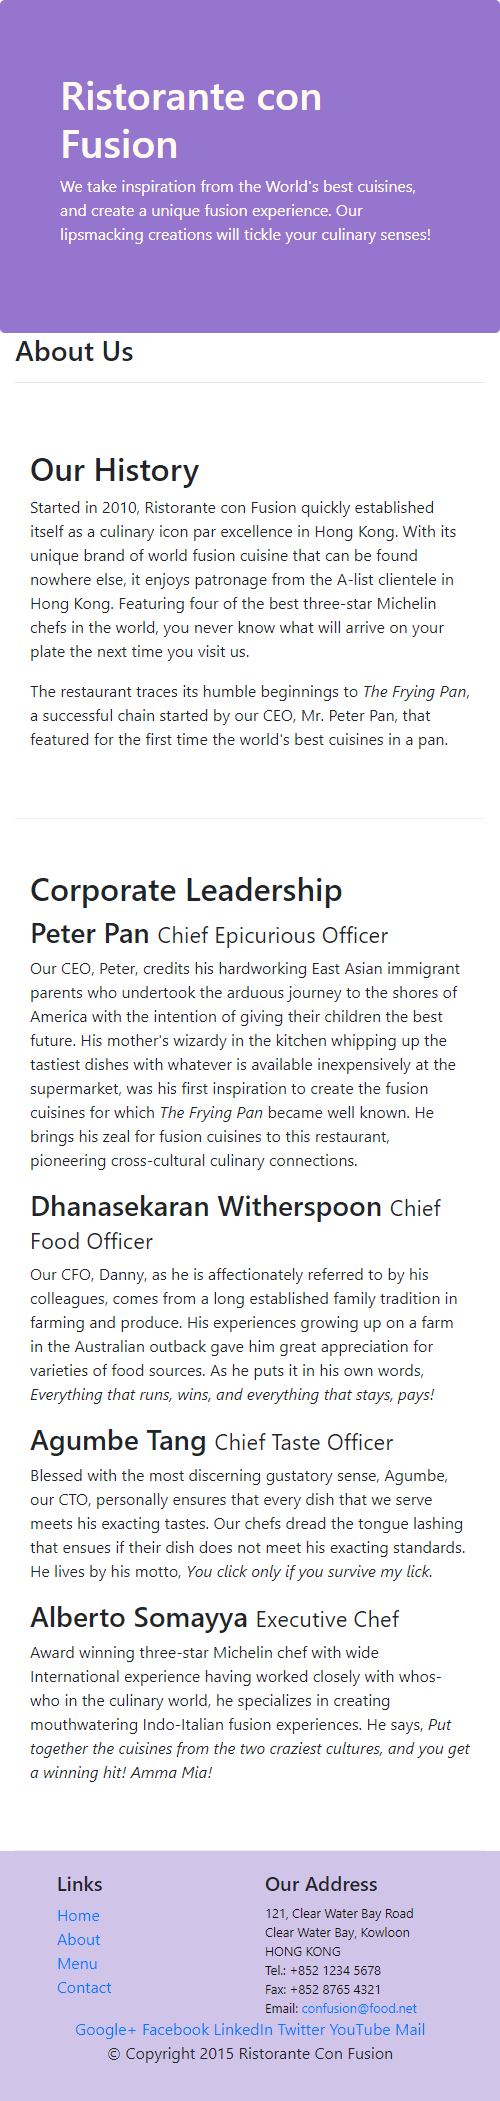
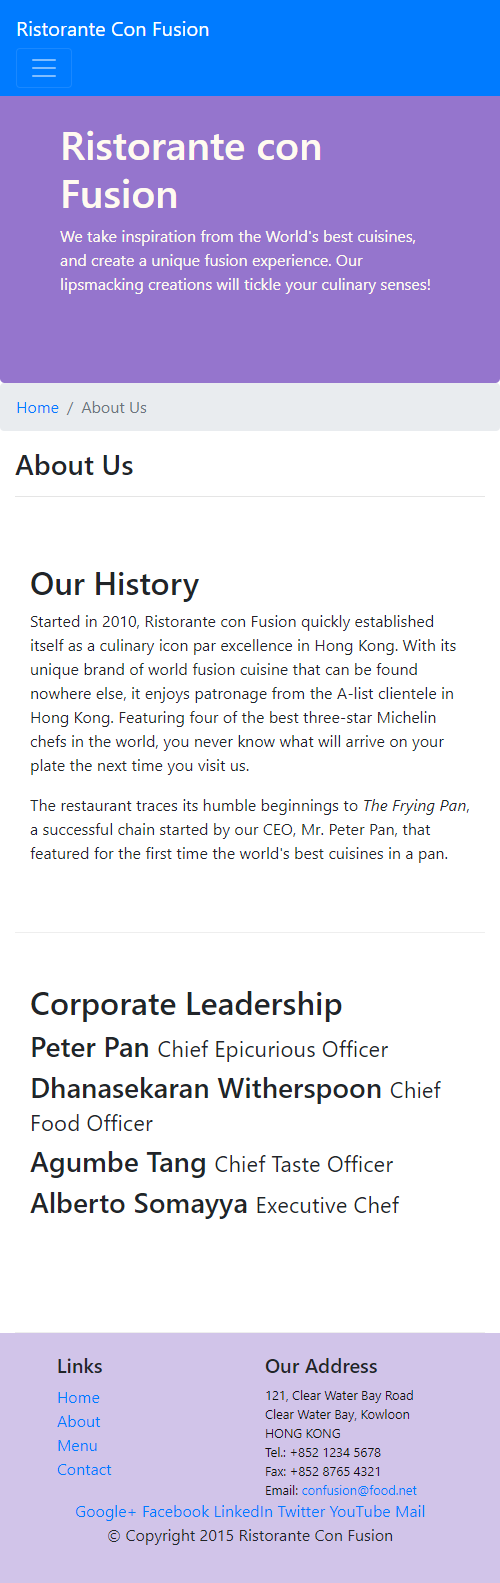
Tabs

diff --git a/aboutus.html b/aboutus.html
@@ -105,20 +105,63 @@
             </div>
         </div>
 
-
         <div class="row row-content">
             <div class="col">
                 <h2>Corporate Leadership</h2>
-                <h3>Peter Pan <small>Chief Epicurious Officer</small></h3>
-                <p class="hidden-xs-down">Our CEO, Peter, credits his hardworking East Asian immigrant parents who undertook the arduous journey to the shores of America with the intention of giving their children the best future. His mother's wizardy in the kitchen whipping up the tastiest dishes with whatever is available inexpensively at the supermarket, was his first inspiration to create the fusion cuisines for which <em>The Frying Pan</em> became well known. He brings his zeal for fusion cuisines to this restaurant, pioneering cross-cultural culinary connections.</p>
-                <h3>Dhanasekaran Witherspoon <small>Chief Food Officer</small></h3>
-                <p class="hidden-xs-down">Our CFO, Danny, as he is affectionately referred to by his colleagues, comes from a long established family tradition in farming and produce. His experiences growing up on a farm in the Australian outback gave him great appreciation for varieties of food sources. As he puts it in his own words, <em>Everything that runs, wins, and everything that stays, pays!</em></p>
-                <h3>Agumbe Tang <small>Chief Taste Officer</small></h3>
-                <p class="hidden-xs-down">Blessed with the most discerning gustatory sense, Agumbe, our CTO, personally ensures that every dish that we serve meets his exacting tastes. Our chefs dread the tongue lashing that ensues if their dish does not meet his exacting standards. He lives by his motto, <em>You click only if you survive my lick.</em></p>
-                <h3>Alberto Somayya <small>Executive Chef</small></h3>
-                <p class="hidden-xs-down">Award winning three-star Michelin chef with wide International experience having worked closely with whos-who in the culinary world, he specializes in creating mouthwatering Indo-Italian fusion experiences. He says, <em>Put together the cuisines from the two craziest cultures, and you get a winning hit! Amma Mia!</em></p>
+                <!-- Adding Tab Navigation -->
+                <ul class="nav nav-tabs">
+                    <li class="nav-item">
+                      <a class="nav-link active" href="#peter"
+                        role="tab" data-toggle="tab">Peter Pan, CEO</a>
+                    </li>
+                    <li class="nav-item">
+                      <a class="nav-link" href="#danny" role="tab"
+                        data-toggle="tab">Danny Witherspoon, CFO</a>
+                    </li>
+                    <li class="nav-item">
+                      <a class="nav-link" href="#agumbe"role="tab"
+                        data-toggle="tab">Agumbe Tang, CTO</a>
+                    </li>
+                    <li class="nav-item">
+                      <a class="nav-link" href="#alberto" role="tab"
+                        data-toggle="tab">Alberto Somayya, Exec. Chef</a>
+                    </li>
+                </ul>
+                <div class="tab-content">
+                    <div role="tabpanel" class="tab-pane fade show active" id="peter">
+                        <h3>Peter Pan <small>Chief Epicurious Officer</small></h3>
+                        <p class="d-none d-sm-block">Our CEO, Peter, credits his hardworking East Asian immigrant parents who undertook the arduous journey to the shores of America with the intention of giving their children the best future. His mother's wizardy in the kitchen whipping up the tastiest dishes with whatever is available inexpensively at the supermarket, was his first inspiration to create the fusion cuisines for which <em>The Frying Pan</em> became well known. He brings his zeal for fusion cuisines to this restaurant, pioneering cross-cultural culinary connections.</p>
+                    </div>
+                    <div role="tabpanel" class="tab-pane fade" id="danny">
+                        <h3>Dhanasekaran Witherspoon <small>Chief Food Officer</small></h3>
+                        <p class="d-none d-sm-block">Our CFO, Danny, as he is affectionately referred to by his colleagues, comes from a long established family tradition in farming and produce. His experiences growing up on a farm in the Australian outback gave him great appreciation for varieties of food sources. As he puts it in his own words, <em>Everything that runs, wins, and everything that stays, pays!</em></p>
+                    </div>
+                    <div role="tabpanel" class="tab-pane fade" id="agumbe">
+                        <h3>Agumbe Tang <small>Chief Taste Officer</small></h3>
+                        <p class="d-none d-sm-block">Blessed with the most discerning gustatory sense, Agumbe, our CTO, personally ensures that every dish that we serve meets his exacting tastes. Our chefs dread the tongue lashing that ensues if their dish does not meet his exacting standards. He lives by his motto, <em>You click only if you survive my lick.</em></p>
+                    </div>
+                    <div role="tabpanel" class="tab-pane fade" id="alberto">
+                        <h3>Alberto Somayya <small>Executive Chef</small></h3>
+                        <p class="d-none d-sm-block ">Award winning three-star Michelin chef with wide International experience having worked closely with whos-who in the culinary world, he specializes in creating mouthwatering Indo-Italian fusion experiences. He says, <em>Put together the cuisines from the two craziest cultures, and you get a winning hit! Amma Mia!</em></p>
+                    </div>
+                </div>
             </div>
        </div>
+
+       <!-- Hidden Content is from Week 2 exercise -->
+        <!-- <div class="row row-content">
+            <div class="col">
+                <h2>Corporate Leadership</h2>
+                <h3>Peter Pan <small>Chief Epicurious Officer</small></h3>
+                <p class="d-none d-sm-block">Our CEO, Peter, credits his hardworking East Asian immigrant parents who undertook the arduous journey to the shores of America with the intention of giving their children the best future. His mother's wizardy in the kitchen whipping up the tastiest dishes with whatever is available inexpensively at the supermarket, was his first inspiration to create the fusion cuisines for which <em>The Frying Pan</em> became well known. He brings his zeal for fusion cuisines to this restaurant, pioneering cross-cultural culinary connections.</p>
+                <h3>Dhanasekaran Witherspoon <small>Chief Food Officer</small></h3>
+                <p class="d-none d-sm-block">Our CFO, Danny, as he is affectionately referred to by his colleagues, comes from a long established family tradition in farming and produce. His experiences growing up on a farm in the Australian outback gave him great appreciation for varieties of food sources. As he puts it in his own words, <em>Everything that runs, wins, and everything that stays, pays!</em></p>
+                <h3>Agumbe Tang <small>Chief Taste Officer</small></h3>
+                <p class="d-none d-sm-block">Blessed with the most discerning gustatory sense, Agumbe, our CTO, personally ensures that every dish that we serve meets his exacting tastes. Our chefs dread the tongue lashing that ensues if their dish does not meet his exacting standards. He lives by his motto, <em>You click only if you survive my lick.</em></p>
+                <h3>Alberto Somayya <small>Executive Chef</small></h3>
+                <p class="d-none d-sm-block ">Award winning three-star Michelin chef with wide International experience having worked closely with whos-who in the culinary world, he specializes in creating mouthwatering Indo-Italian fusion experiences. He says, <em>Put together the cuisines from the two craziest cultures, and you get a winning hit! Amma Mia!</em></p>
+            </div>
+       </div> -->
 
         <div class="row row-content">
             <div class="col-12 col-sm-9">
